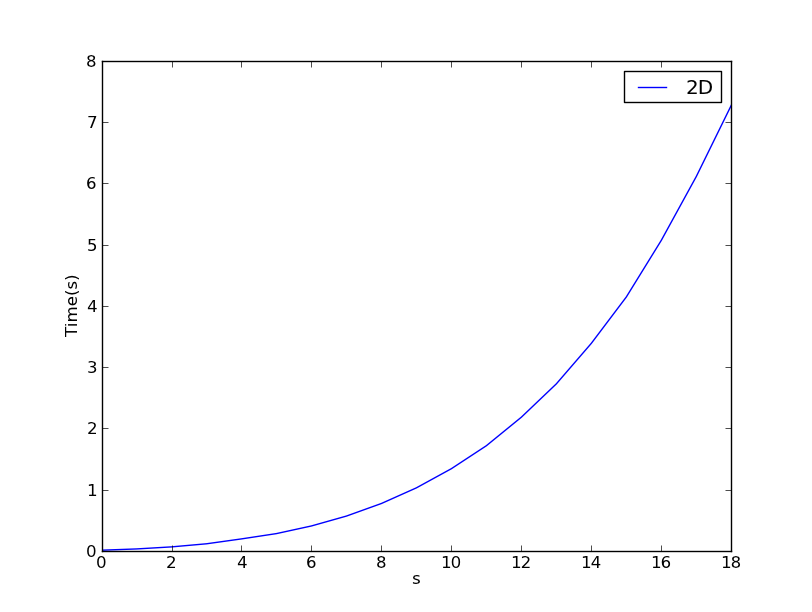
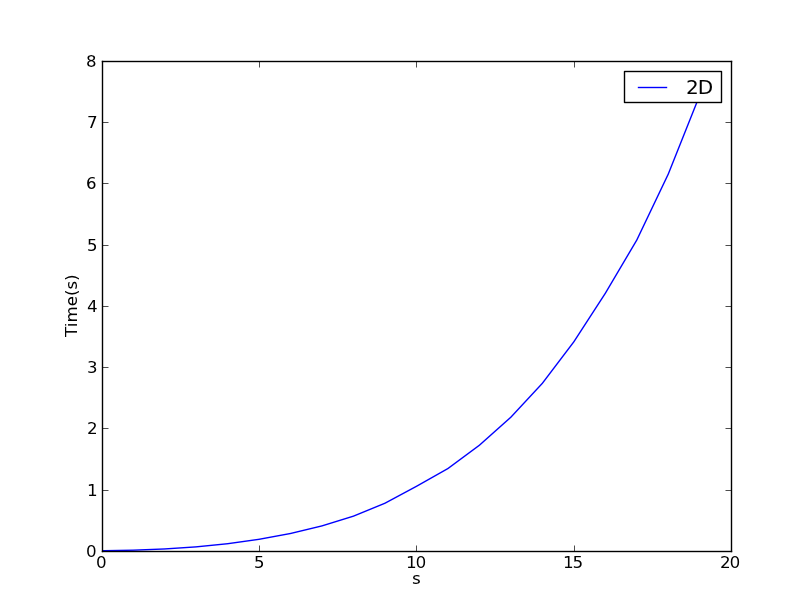
Fixed some bugs.

diff --git a/Beeldbewerken/Exercise 4/canny.py b/Beeldbewerken/Exercise 4/canny.py
@@ -19,7 +19,8 @@ def canny(F, s, high_threshold, low_threshold):
     for x in xrange(len(G[0])):
         for y in xrange(len(G)):
             G[x][y] = sqrt(Gx[x][y] ** 2 + Gy[x][y] ** 2)
-            angle[x][y] = int(round(arctan2(Gx[x][y], Gy[x][y]) * 4 / pi + 1)) % 4
+            angle[x][y] = int( \
+                    round(arctan2(Gx[x][y], Gy[x][y]) * 4 / pi + 1)) % 4
     
     # Non-maximum suppression
     for x in xrange(len(G[0])):
@@ -48,16 +49,14 @@ def canny(F, s, high_threshold, low_threshold):
     after_threshold = zeros(after_nm.shape, dtype = int)
     
     def follow_edge(x, y):
-        """Follow an edge by checking if the neighbours are in it."""
-        if after_threshold[x][y]:
-            return
-
+        """Follow an edge by recursively checking if the neighbours are in 
+        it."""
         after_threshold[x][y] = 1
 
         for x in xrange(-1, 2):
             for y in xrange(-1, 2):
                 if (not x or not y):
-                    if after_nm[x][y] >= low_threshold:
+                    if after_nm[x][y] >= low_threshold and not after_threshold:
                         follow_edge(x, y)
     
     # Make border pixels zero
@@ -72,7 +71,7 @@ def canny(F, s, high_threshold, low_threshold):
     # Follow each line
     for x in xrange(len(after_nm[0])):
         for y in xrange(len(after_nm)):
-            if after_nm[x][y] >= high_threshold:
+            if after_nm[x][y] >= high_threshold and not after_threshold[x][y]:
                 follow_edge(x, y)
     
     return after_threshold

diff --git a/Beeldbewerken/Exercise 4/time.py b/Beeldbewerken/Exercise 4/time.py
@@ -11,7 +11,8 @@ if len(argv) != 2:
 method = argv[1]
 
 Image = imread('cameraman.png')
-timings = zeros((19))
+timings = zeros((20))
+timings[0] = 0
 temp = zeros((3))
 
 if method == '2D':
@@ -22,7 +23,7 @@ if method == '2D':
             G = convolve(Image, Gs, mode='nearest')
             stop = time()
             temp[j] = stop - start
-        timings[i - 1] = average(temp)
+        timings[i] = average(temp)
 elif method == '1D':
     for i in xrange(1, 20):
         for j in xrange(0,3):

diff --git a/Beeldbewerken/Exercise 4/gaussian_functions.py b/Beeldbewerken/Exercise 4/gaussian_functions.py
@@ -1,4 +1,4 @@
-from scipy.ndimage import convolve
+from scipy.ndimage import convolve, convolve1d
 from pylab import ceil, zeros, pi, e, exp, sqrt, dot, array
 
 def f(s, n, x, y):
@@ -72,4 +72,5 @@ def gD(F, s, iorder, jorder):
             
     gaussFilter
     
-    return convolve(F, gaussFilter, mode='nearest')
+    return convolve1d(convolve1d(F, filt_x, axis=0, mode='nearest'), filt_y, axis=1, mode='nearest')
+#    return convolve(F, gaussFilter, mode='nearest')
